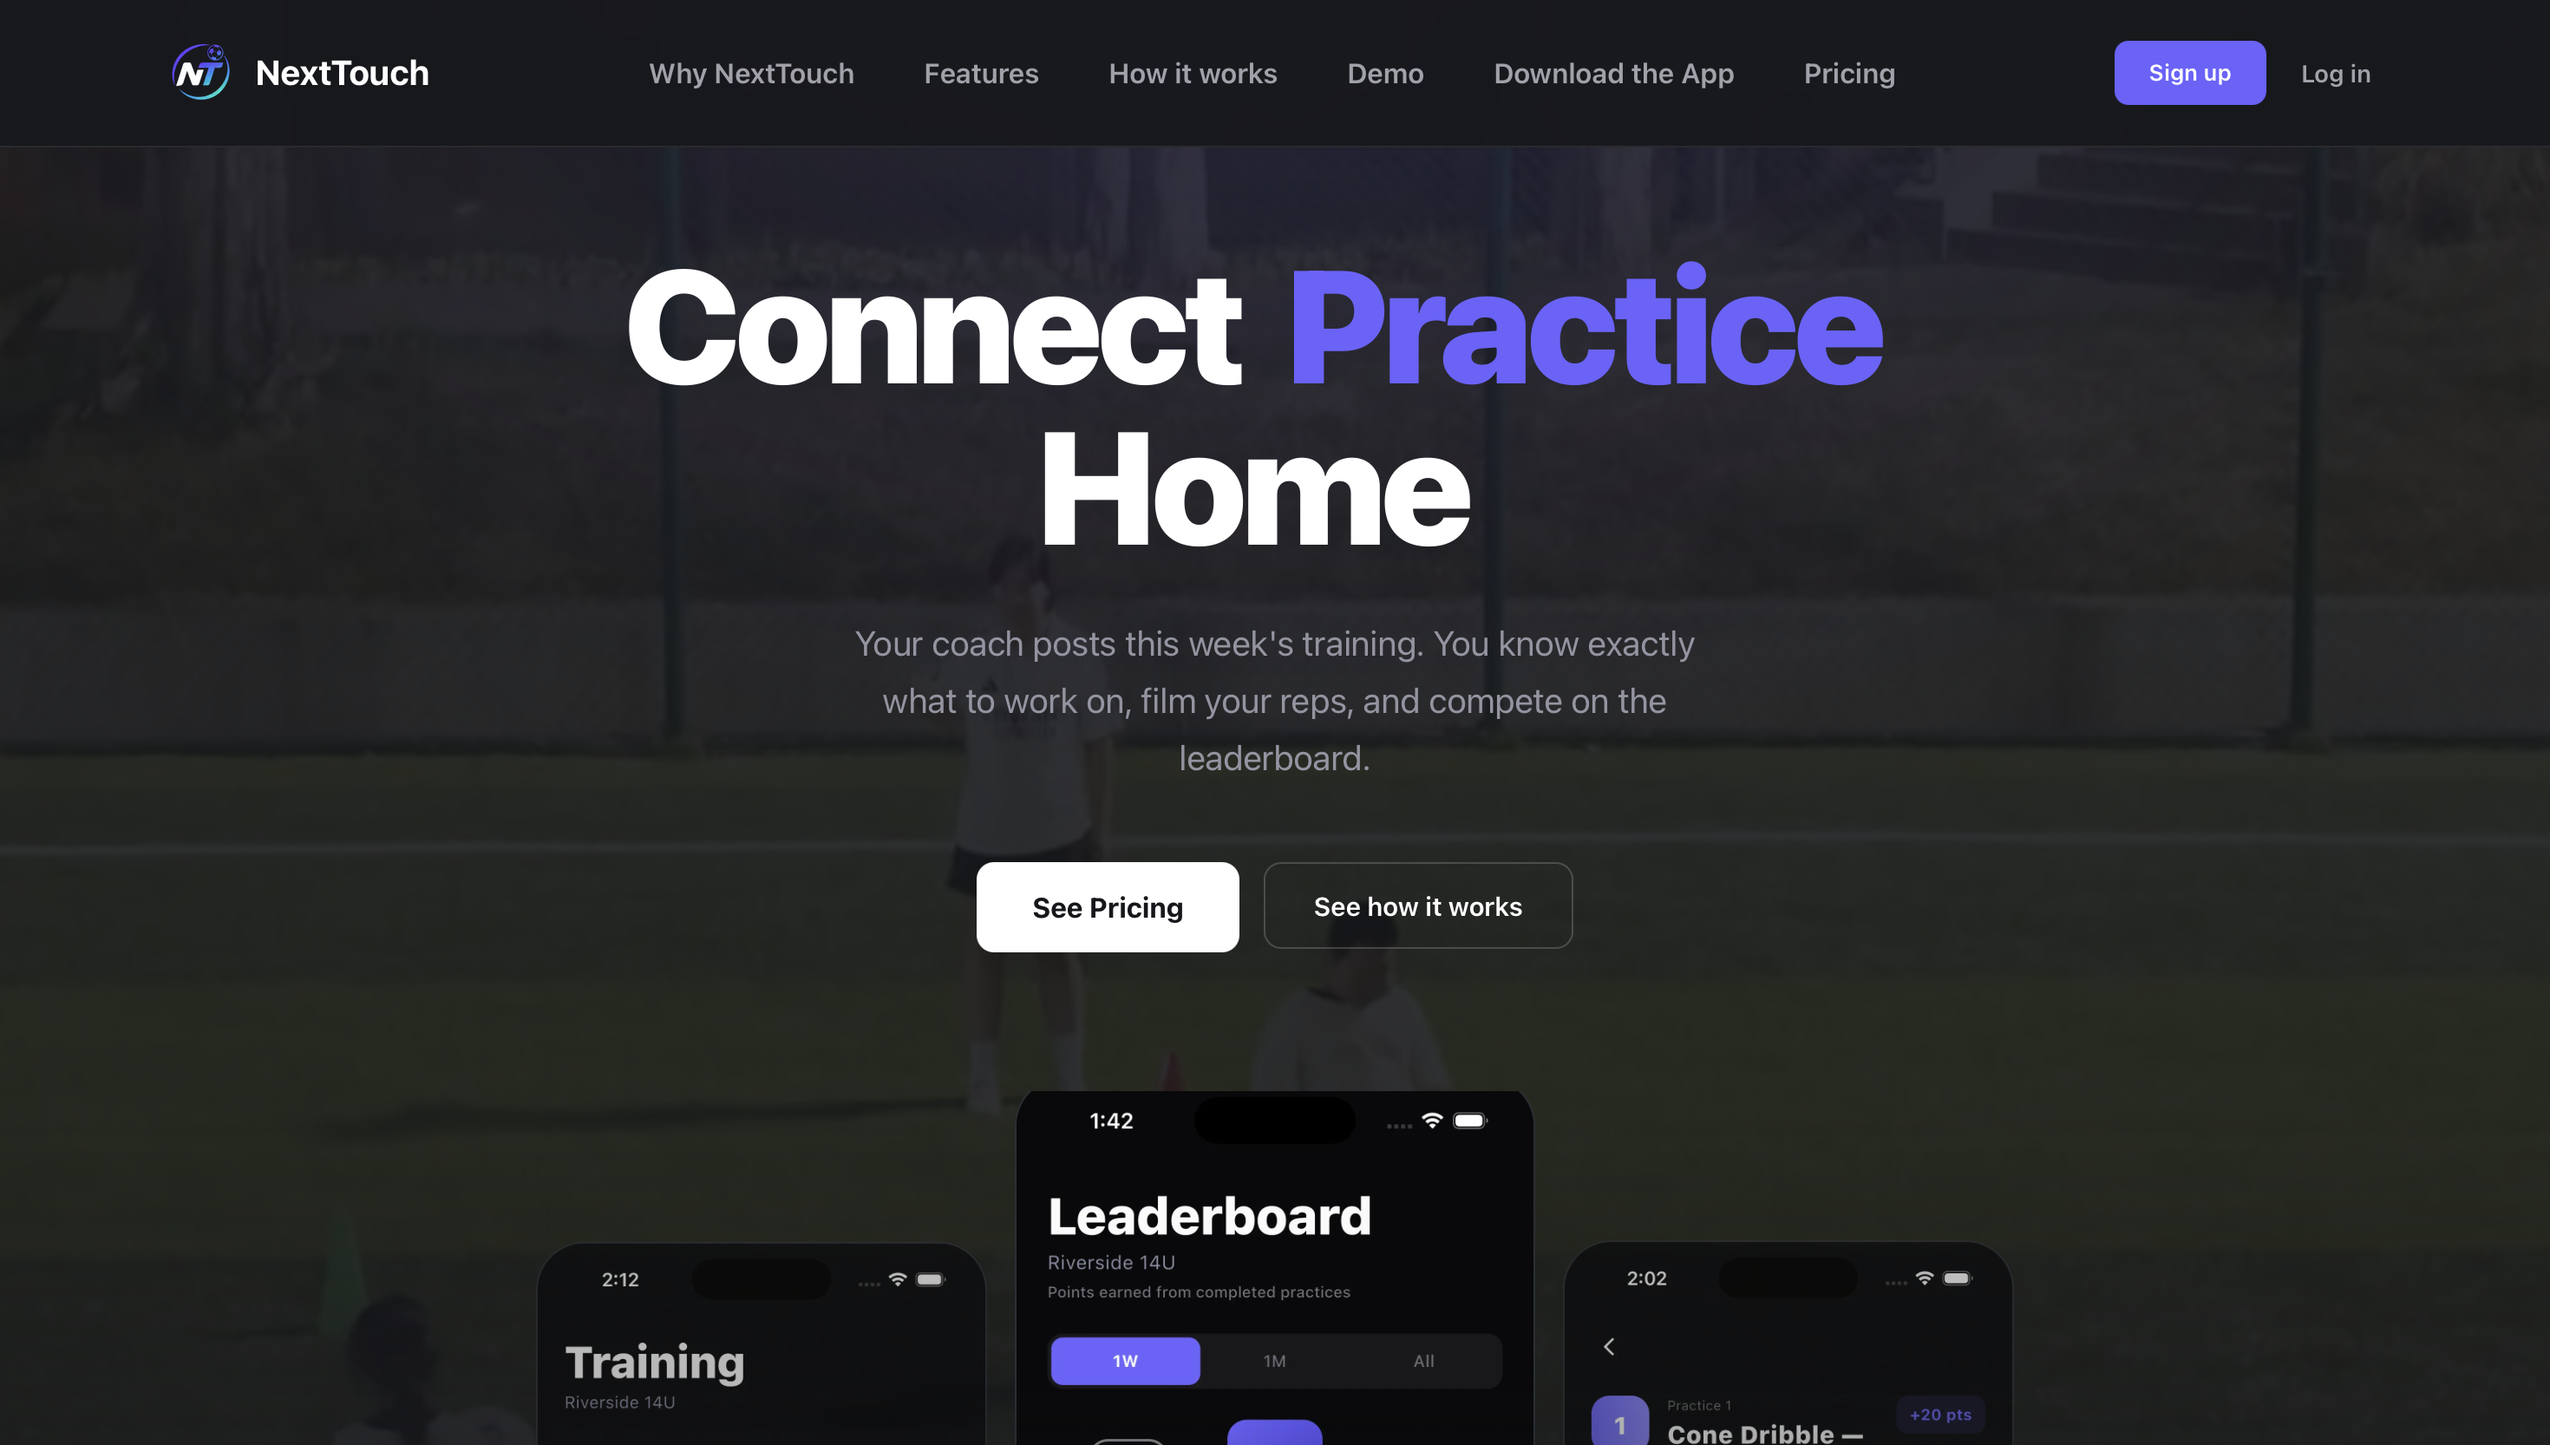
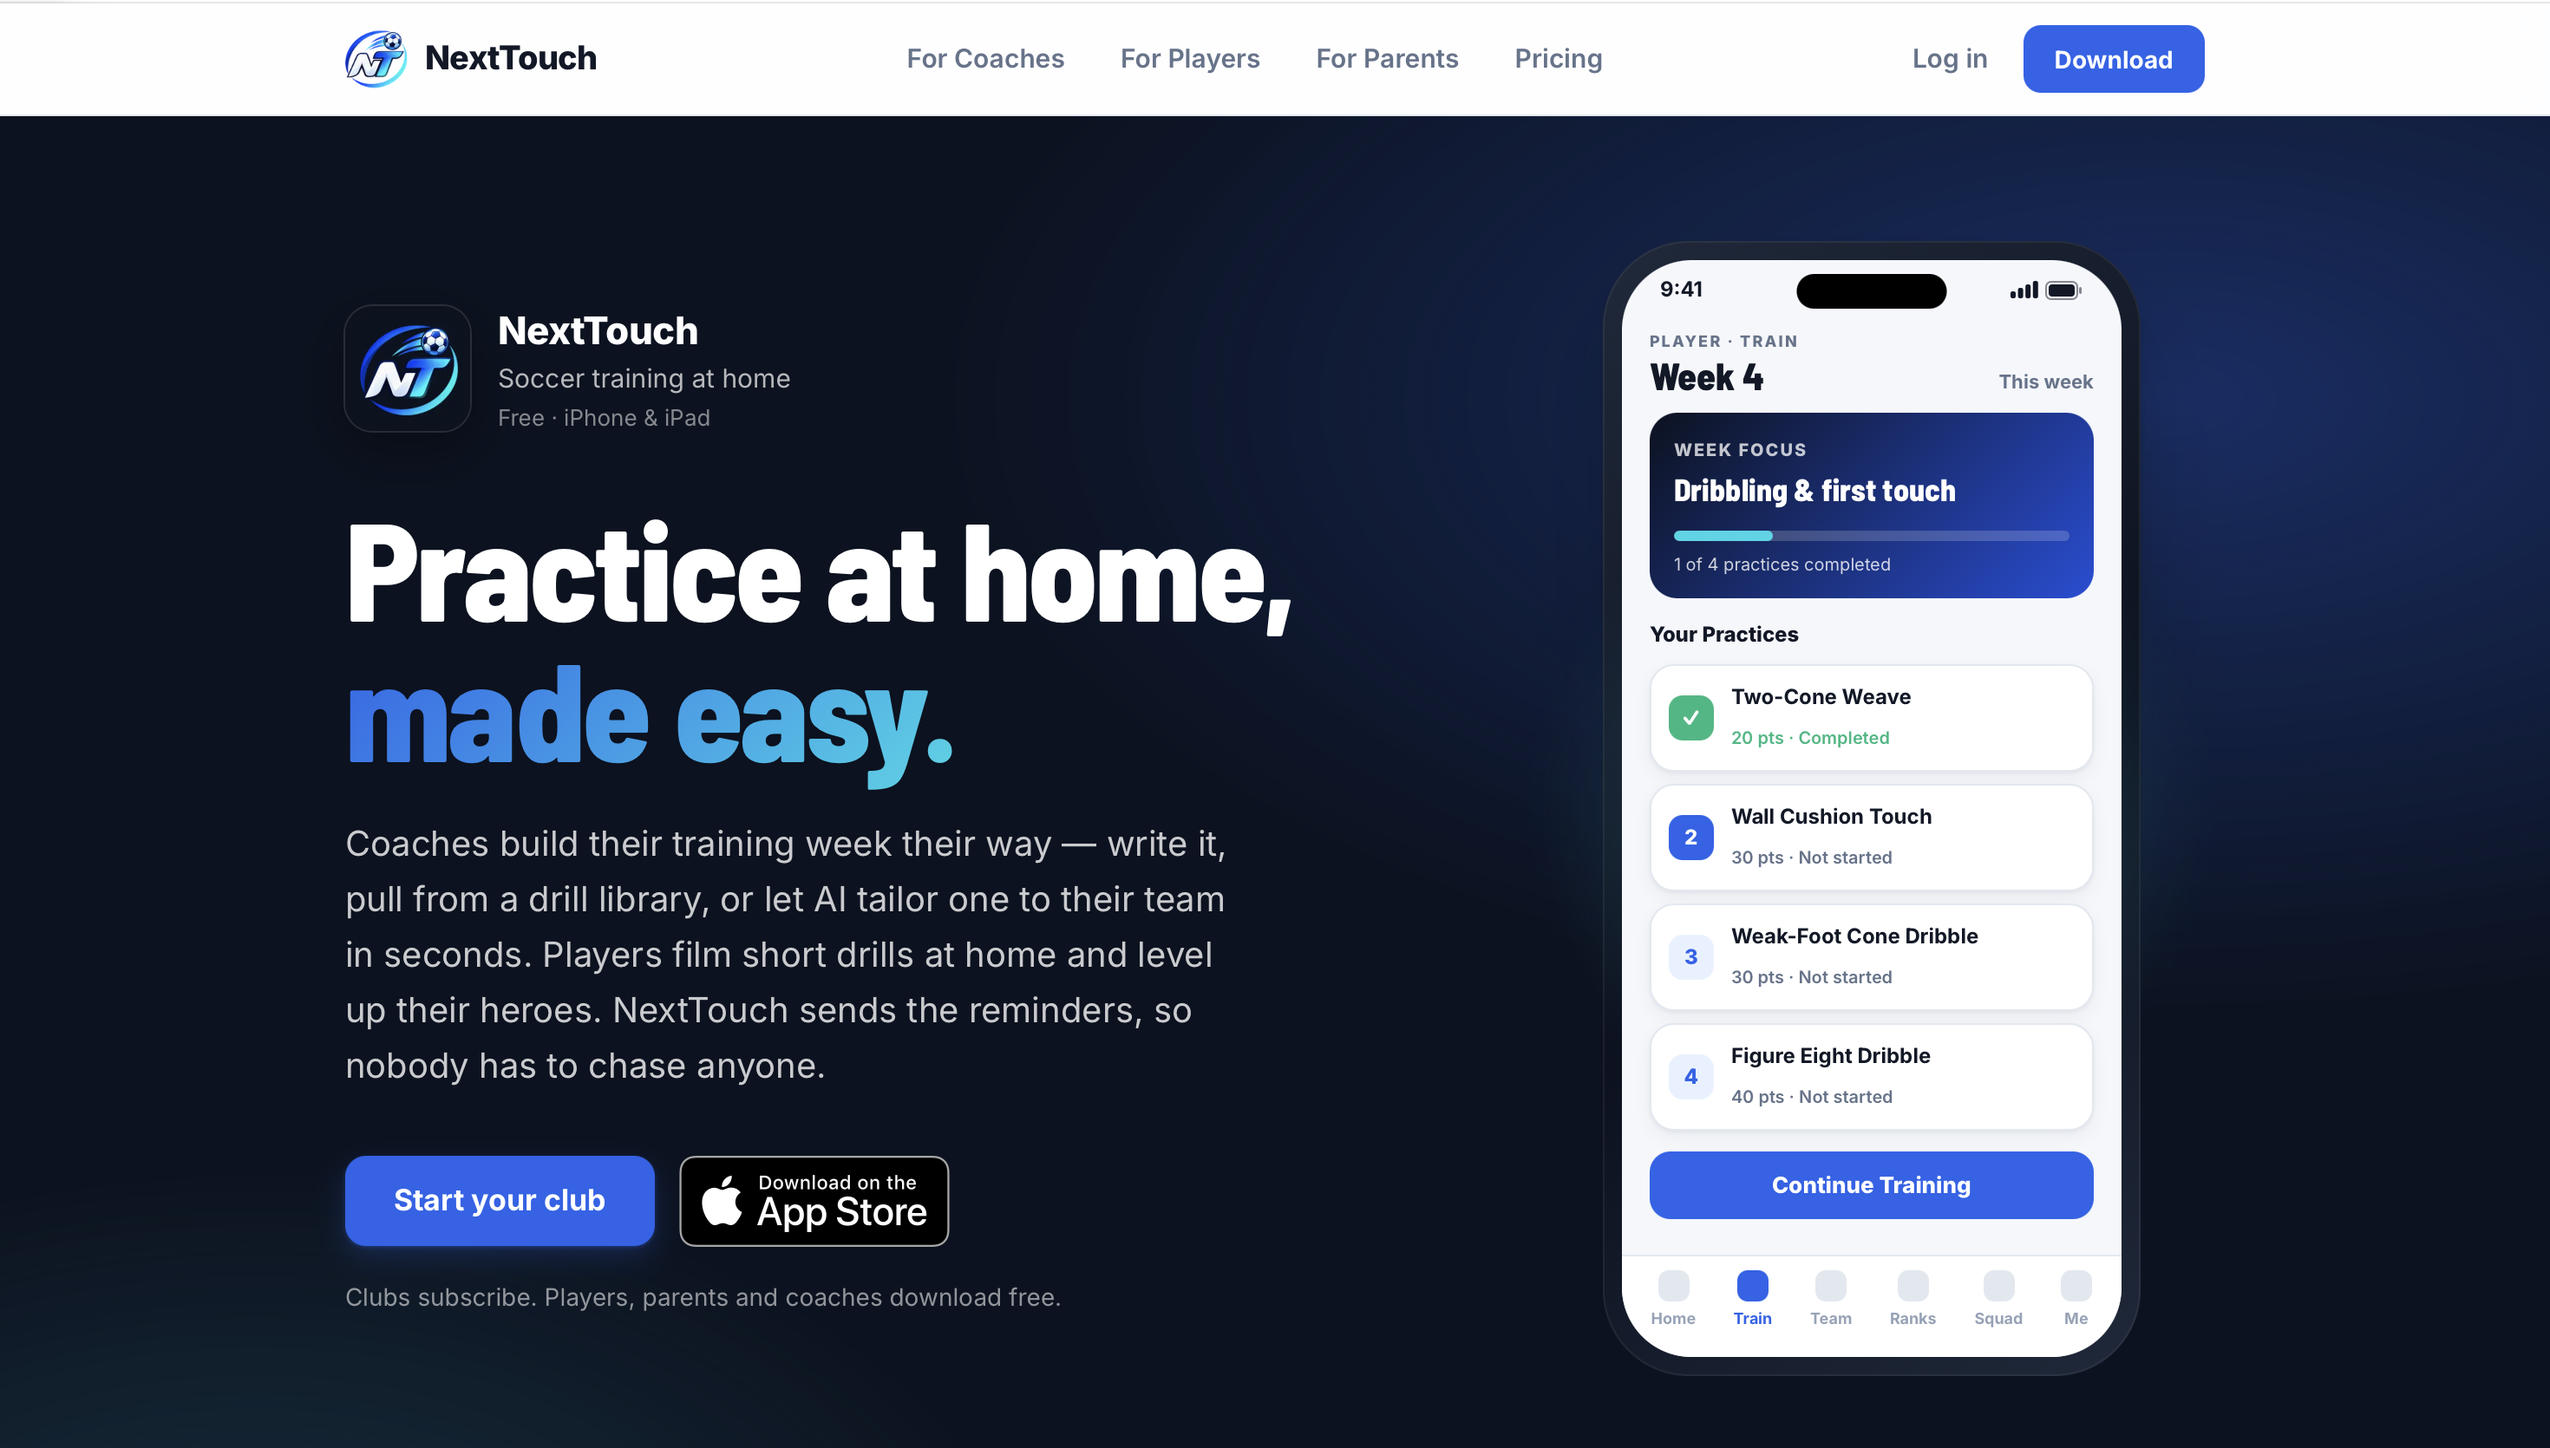
Update NextTouch with new marketing site and app screenshots
Swap the hero for the redesigned nexttouchsports.com and replace the old
lesson/leaderboard shots with the new training path, coach review, and
hero card match screens. The work page now shows all three phones, and
the case-study preview grid goes three-up when a project has three.

diff --git a/lib/projects.ts b/lib/projects.ts
@@ -168,16 +168,22 @@ export const PROJECTS: Project[] = [
     ],
     previews: [
       {
-        src: '/nexttouch-lesson.png',
-        alt: 'Practice & Video Submission',
-        title: 'Practice & Video Submission',
-        desc: 'Players follow a step-by-step practice, then record or upload their attempt for their coach to review.',
+        src: '/nexttouch-train.png',
+        alt: 'Weekly Training Path',
+        title: 'Weekly Training Path',
+        desc: "Each week's practices are laid out as a path across the pitch. Players unlock the next drill and earn points as they complete each one.",
       },
       {
-        src: '/nexttouch-leaderboard.png',
-        alt: 'Team Leaderboard',
-        title: 'Team Leaderboard',
-        desc: 'Points earned from completed practices rank players on the team leaderboard, updated weekly.',
+        src: '/nexttouch-review.png',
+        alt: 'Coach Video Review',
+        title: 'Coach Video Review',
+        desc: "Coaches watch each submitted clip and respond with a thumbs up, a Coach's Pick, quick-feedback chips, or a written note.",
+      },
+      {
+        src: '/nexttouch-match.png',
+        alt: 'Hero Card Match',
+        title: 'Hero Card Match',
+        desc: 'Players level up their hero cards through training, then play them head-to-head in skill-based card matches.',
       },
     ],
     pipelineIntro:

diff --git a/app/work/page.tsx b/app/work/page.tsx
@@ -191,20 +191,16 @@ export default function WorkPage() {
           <div className="grid grid-cols-1 gap-10 md:grid-cols-12 md:items-center md:gap-8 lg:gap-12">
             {/* Media */}
             <div className="md:col-span-7">
-              <div className="mx-auto grid max-w-md grid-cols-2 gap-5 md:max-w-none md:gap-7">
-                <Reveal delay={0.06}>
-                  <PhoneFrame
-                    src={nextTouch.previews[0].src}
-                    alt={nextTouch.previews[0].alt}
-                  />
-                </Reveal>
-                <Reveal delay={0.14}>
-                  <PhoneFrame
-                    src={nextTouch.previews[1].src}
-                    alt={nextTouch.previews[1].alt}
-                    className="mt-8 md:mt-12"
-                  />
-                </Reveal>
+              <div className="mx-auto grid max-w-md grid-cols-3 gap-3 md:max-w-none md:gap-5">
+                {nextTouch.previews.map((preview, i) => (
+                  <Reveal key={preview.src} delay={0.06 + i * 0.08}>
+                    <PhoneFrame
+                      src={preview.src}
+                      alt={preview.alt}
+                      className={i === 1 ? 'mt-8 md:mt-12' : ''}
+                    />
+                  </Reveal>
+                ))}
               </div>
             </div>
 

diff --git a/components/ProductVisuals.tsx b/components/ProductVisuals.tsx
@@ -19,7 +19,7 @@ export default function ProductVisuals({ previews }: { previews: Preview[] }) {
 
   return (
     <>
-      <div className="grid grid-cols-1 gap-8 md:grid-cols-2">
+      <div className={`grid grid-cols-1 gap-8 md:grid-cols-2 ${previews.length === 3 ? 'lg:grid-cols-3' : ''}`}>
         {previews.map((preview, i) => (
           <Reveal key={preview.title} delay={i * 0.06}>
             <div className="overflow-hidden rounded-2xl border border-border-neutral">
